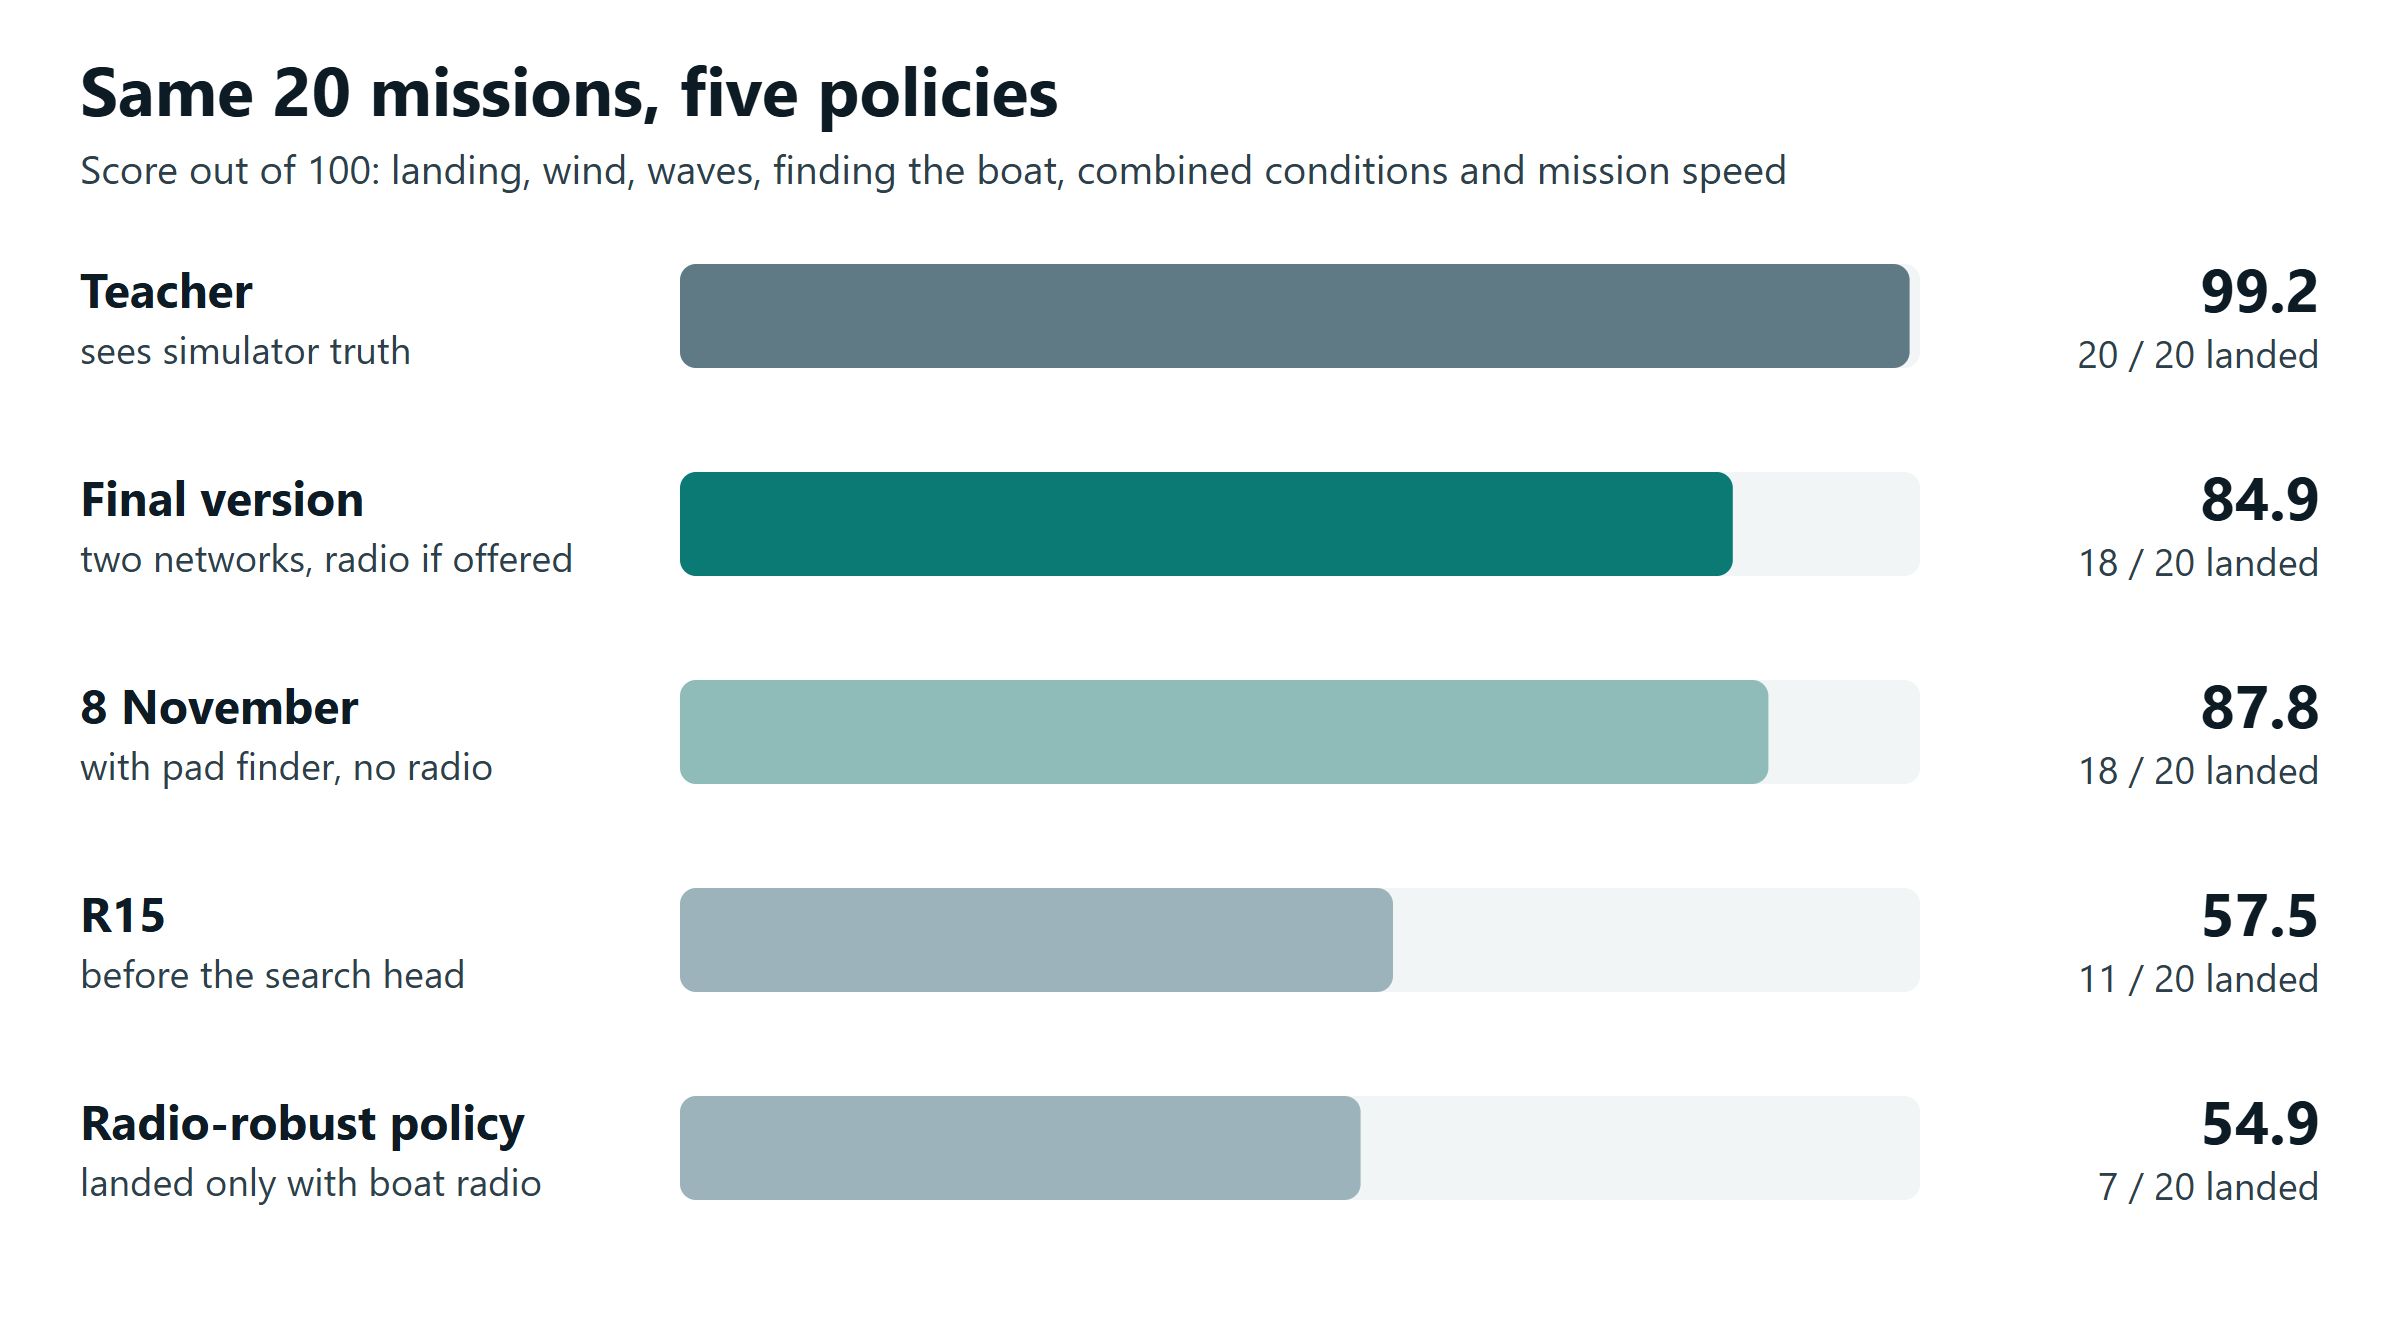
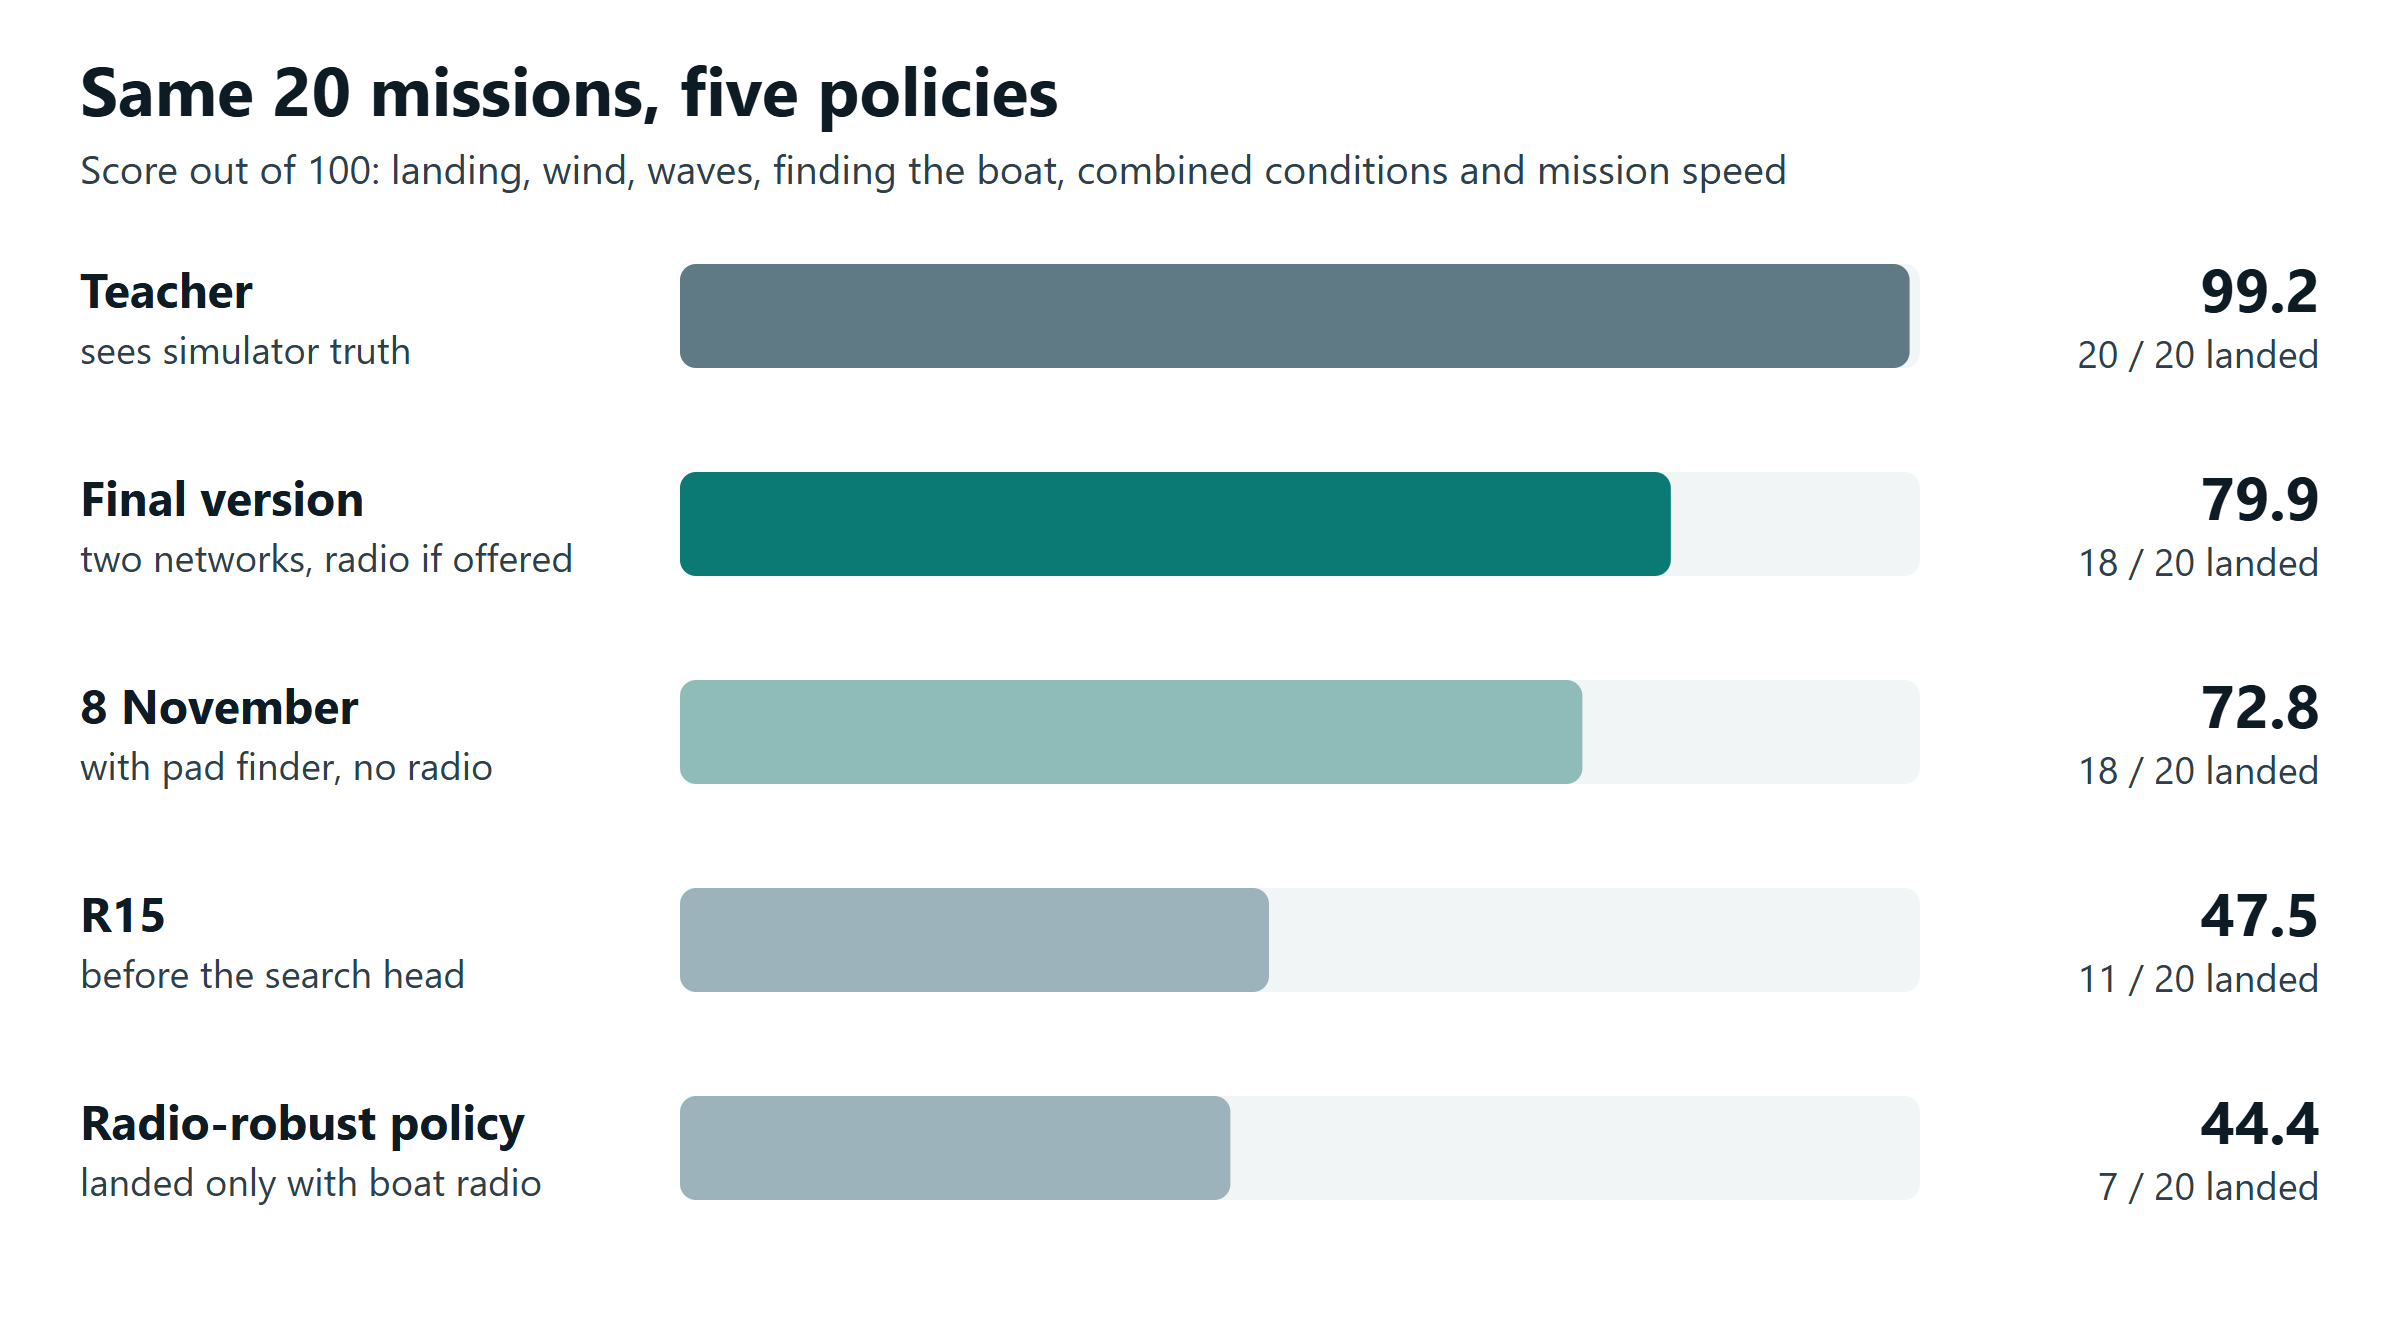
Benchmark: revise category weights, combined conditions weigh 25 %
The first-draft weights gave the combined missions (wind, waves, 100 m
search and decoys at once) the lowest weight, although they are the
condition the drone would actually face. New reporting weights: finding 25,
landing 20, wind 10, waves 10, combined 25, speed 10, kept in
benchmark/definition/scoring_weights.json and applied by the tracker.
suite.json, its pinned hash and every flight receipt are unchanged; the old
weights are stated in the benchmark README.

Scores: teacher 99.2, final version 79.9, 8 November 72.8, R15 47.5,
radio-robust 44.4 (landings unchanged).

diff --git a/website/app.js b/website/app.js
@@ -32,10 +32,10 @@ const STAGES = {
 
 const MODELS = [
 	{ key: 'teacher', name: 'Teacher', note: 'sees simulator truth', score: 99.2, landed: 20 },
-	{ key: 'current', name: 'Final version', note: 'two networks, radio if offered', score: 84.9, landed: 18 },
-	{ key: 'nov', name: '8 November', note: 'with pad finder, no radio', score: 87.8, landed: 18 },
-	{ key: 'r15', name: 'Camera first', note: 'before the search head', score: 57.5, landed: 11 },
-	{ key: 'radio', name: 'Radio-dependent', note: 'landed only with boat radio', score: 54.9, landed: 7 },
+	{ key: 'current', name: 'Final version', note: 'two networks, radio if offered', score: 79.9, landed: 18 },
+	{ key: 'nov', name: '8 November', note: 'with pad finder, no radio', score: 72.8, landed: 18 },
+	{ key: 'r15', name: 'Camera first', note: 'before the search head', score: 47.5, landed: 11 },
+	{ key: 'radio', name: 'Radio-dependent', note: 'landed only with boat radio', score: 44.4, landed: 7 },
 ];
 
 // ---- navigation bar turns solid after the hero

diff --git a/website/index.html b/website/index.html
@@ -197,7 +197,7 @@
 		<h2>Results</h2>
 		<p class="lead narrow">Every policy flies the same 20 missions on five kinds of coast: boat speeds up to 1.5&nbsp;m/s, 4&nbsp;m/s crosswind, waves, a search from 100&nbsp;m away and other boats in the scene. A landing counts only if the drone ends up disarmed and stable on the pad.</p>
 
-		<div class="chart" id="chart" role="img" aria-label="Benchmark scores: teacher 99.2 with 20 of 20 landings; final version 84.9 with 18 of 20; 8 November version with pad finder, camera only, 87.8 with 18 of 20; camera first, before the search head, 57.5 with 11 of 20; radio-dependent 54.9 with 7 of 20."></div>
+		<div class="chart" id="chart" role="img" aria-label="Benchmark scores: teacher 99.2 with 20 of 20 landings; final version 79.9 with 18 of 20; 8 November version with pad finder, camera only, 72.8 with 18 of 20; camera first, before the search head, 47.5 with 11 of 20; radio-dependent 44.4 with 7 of 20."></div>
 
 		<div class="two results-notes">
 			<div>

diff --git a/benchmark/harness/track.py b/benchmark/harness/track.py
@@ -39,6 +39,22 @@ def canonical_plan():
     return read(ROOT / 'definition/suite.json')
 
 
+def scoring_plan():
+    """The pinned plan with the reporting weights from scoring_weights.json applied.
+
+    suite.json (missions and its pinned hash) stays untouched; only the tracker's
+    category weights come from the separate reporting file.
+    """
+    plan = canonical_plan()
+    path = ROOT / 'definition/scoring_weights.json'
+    if path.exists():
+        weights = read(path)['weights']
+        if set(weights) != set(plan['categories']) or abs(sum(weights.values()) - 1) > 1e-9:
+            raise ValueError('scoring_weights.json must give every category a weight, summing to 1')
+        plan = dict(plan, categories={k: dict(v, weight=weights[k]) for k, v in plan['categories'].items()})
+    return plan
+
+
 def _inventory():
     return {row['id']: row for row in read(ROOT / 'policies/inventory.json')['policies']}
 
@@ -194,7 +210,7 @@ def _runs():
 
 
 def build():
-    plan = canonical_plan()
+    plan = scoring_plan()
     cases = {case['id']: case for case in plan['cases']}
     categories = plan['categories']
     inventory = _inventory()
@@ -271,6 +287,7 @@ def build():
         schema=plan['schema'],
         plan_sha256=plan['plan_sha256'],
         suite_path='benchmark/definition/suite.json',
+        weights_path='benchmark/definition/scoring_weights.json',
         runtime_sha256=sha(ROOT / 'definition/runtime.json'),
         case_count=len(plan['cases']),
         categories=categories,

diff --git a/benchmark/README.md b/benchmark/README.md
@@ -7,10 +7,10 @@ Five policies fly the same 20 MuJoCo missions with PX4 in the loop.
 | Policy | Score | Landed | What it is |
 |---|---:|---:|---|
 | Privileged teacher, wave-aware gate | 99.2 | 20 / 20 | Uses simulator truth. Upper reference, source of training labels. |
-| **Final version** | **84.9** | **18 / 20** | Main network and search head, the build that runs in the realistic browser game. Uses the boat's radio in the missions that offer it. Flown once, 19 November. |
-| Search student, 8 November | 87.8 | 18 / 20 | Main network and pad finder (R15), frozen, plus the search head. Camera and own sensors only; this adapter blocks all boat-radio input. |
-| R15 | 57.5 | 11 / 20 | Main network and pad finder, before the search head existed. Trusts the camera for position and takes only boat velocity from the radio. |
-| Radio-robust, 15 October | 54.9 | 7 / 20 | Earlier hybrid that leaned on the boat's radio. Landed 7 of 14 with radio, 0 of 6 without. |
+| **Final version** | **79.9** | **18 / 20** | Main network and search head, the build that runs in the realistic browser game. Uses the boat's radio in the missions that offer it. Flown once, 19 November. |
+| Search student, 8 November | 72.8 | 18 / 20 | Main network and pad finder (R15), frozen, plus the search head. Camera and own sensors only; this adapter blocks all boat-radio input. |
+| R15 | 47.5 | 11 / 20 | Main network and pad finder, before the search head existed. Trusts the camera for position and takes only boat velocity from the radio. |
+| Radio-robust, 15 October | 44.4 | 7 / 20 | Earlier hybrid that leaned on the boat's radio. Landed 7 of 14 with radio, 0 of 6 without. |
 
 All 100 flights were valid. For the four older policies, exact values and every
 episode are in [`benchmark.json`](benchmark.json). The final version is scored
@@ -22,12 +22,19 @@ four inventory policies, so it is not in `benchmark.json`.
 
 | Category | Weight | Missions |
 |---|---:|---|
-| Find the target boat | 30 % | 10: near and 100 m starts, radio on/off, with and without decoy boats |
+| Find the target boat | 25 % | 10: near and 100 m starts, radio on/off, with and without decoy boats |
 | Landing / boat speed | 20 % | 4: 0.6 and 1.5 m/s |
-| Wind | 15 % | 2: 4 m/s crosswind |
-| Waves | 15 % | 2: 0.15 m |
-| Combined | 10 % | 2: wind, waves, 100 m search and decoys together |
+| Wind | 10 % | 2: 4 m/s crosswind |
+| Waves | 10 % | 2: 0.15 m |
+| Combined | 25 % | 2: wind, waves, 100 m search and decoys together |
 | Mission speed | 10 % | Time to a successful landing |
+
+The combined missions are what the drone would actually face, so they weigh as
+much as finding the boat; wind and waves alone are parts of them. The weights
+were revised on 19 November 2026 (before: finding 30, landing 20, wind 15,
+waves 15, combined 10, speed 10). They live in
+[`definition/scoring_weights.json`](definition/scoring_weights.json); the
+missions and every flight are unchanged.
 
 A landing counts only when the drone is disarmed and stable on the pad.
 

diff --git a/landing_training/README.md b/landing_training/README.md
@@ -86,16 +86,16 @@ the drone ends up disarmed and stable on the pad.
 | Policy | Score | Landed |
 |---|---:|---:|
 | Teacher (sees the simulator's ground truth, sets the ceiling) | 99.2 | 20 / 20 |
-| **Final version** (search head and main network) | **84.9** | **18 / 20** |
-| With search head and pad finder, camera only (8 Nov) | 87.8 | 18 / 20 |
-| Camera first, no search head | 57.5 | 11 / 20 |
-| Radio-dependent (15 Oct) | 54.9 | 7 / 20 |
+| **Final version** (search head and main network) | **79.9** | **18 / 20** |
+| With search head and pad finder, camera only (8 Nov) | 72.8 | 18 / 20 |
+| Camera first, no search head | 47.5 | 11 / 20 |
+| Radio-dependent (15 Oct) | 44.4 | 7 / 20 |
 
 The final version uses the boat's radio in the missions that offer it; the
 8 November version was flown with the radio blocked everywhere. Both land 18
-of 20. The final version scores a little lower because one wave mission ran
-out of time and its landings took slightly longer; in exchange it lands one of
-the two missions that combine everything.
+of 20. The final version scores higher because it lands one of the two
+missions that combine everything, which weigh the most; it loses one wave
+mission, which ran out of time.
 
 The final version also flies in a [realistic browser game](../tidewater-game/README.md)
 whose ocean, light and boats the networks never saw during training. There it

diff --git a/landing_training/docs/ARCHITECTURE.md b/landing_training/docs/ARCHITECTURE.md
@@ -15,10 +15,10 @@ There is one final version. Everything else is history kept as evidence.
 
 | Version | Networks | Runs where | Benchmark |
 |---|---|---|---|
-| **Final** (`student.onnx`, 19 Nov) | Main network + search head | Realistic browser game; natively via `benchmark.harness.tidewater_run` | 84.9, 18 / 20 ([evidence](../../benchmark/evidence/final/summary.json)) |
-| Search student `fresh-search-f62c10a2` (8 Nov) | Main network + pad finder + search head, radio blocked | Benchmark only | 87.8, 18 / 20 |
-| R15 | Main network + pad finder | Benchmark only | 57.5, 11 / 20 |
-| Radio-robust (15 Oct) | Earlier hybrid | Benchmark only | 54.9, 7 / 20 |
+| **Final** (`student.onnx`, 19 Nov) | Main network + search head | Realistic browser game; natively via `benchmark.harness.tidewater_run` | 79.9, 18 / 20 ([evidence](../../benchmark/evidence/final/summary.json)) |
+| Search student `fresh-search-f62c10a2` (8 Nov) | Main network + pad finder + search head, radio blocked | Benchmark only | 72.8, 18 / 20 |
+| R15 | Main network + pad finder | Benchmark only | 47.5, 11 / 20 |
+| Radio-robust (15 Oct) | Earlier hybrid | Benchmark only | 44.4, 7 / 20 |
 
 The final version's control code is
 [`tidewater-game/app/public/policy/reference/`](../../tidewater-game/app/public/policy/reference/):

diff --git a/AGENTS.md b/AGENTS.md
@@ -5,7 +5,7 @@
 There is one final version: `student.onnx` (main network + search head, no pad
 finder) with the control code in `tidewater-game/app/public/policy/reference/`.
 It runs in the browser game and natively via `benchmark.harness.tidewater_run`.
-Its benchmark result is `benchmark/evidence/final/summary.json` (84.9, 18/20).
+Its benchmark result is `benchmark/evidence/final/summary.json` (79.9, 18/20).
 The version table is in `landing_training/docs/ARCHITECTURE.md`. Older policies
 (the 8 November search student with the pad finder, R15, radio-robust) are
 history kept as evidence; do not describe them as current.

diff --git a/README.md b/README.md
@@ -14,7 +14,7 @@ Nothing has flown on real hardware yet.
 
 | | |
 |---|---|
-| Benchmark | **18 of 20** missions landed (score 84.9 / 100) |
+| Benchmark | **18 of 20** missions landed (score 79.9 / 100) |
 | Networks | Search head, about 45,000 parameters; main network, about 1.55 million |
 | Inputs | One 640 × 360 camera that can turn and tilt, the drone's own sensors and, if the boat sends it, its GPS position by radio |
 | Outputs | Velocity, yaw rate and camera pan/tilt at 25 Hz, flown by PX4 1.16 |
